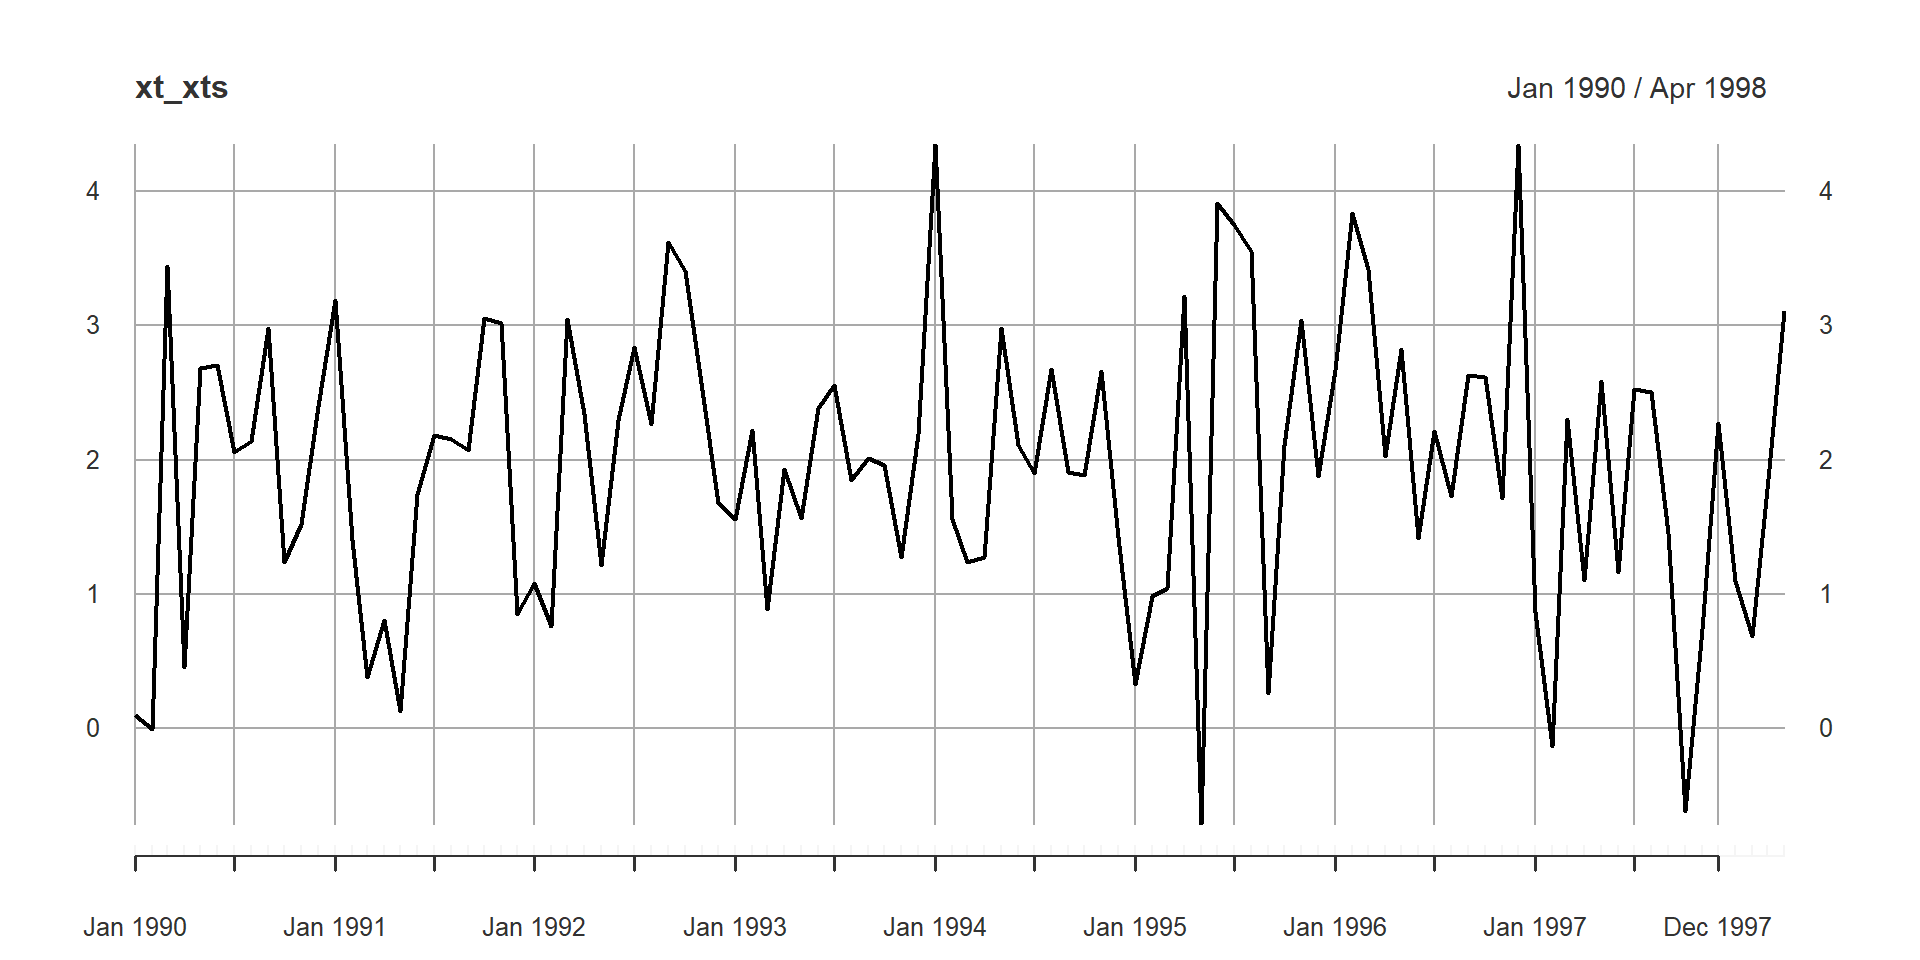
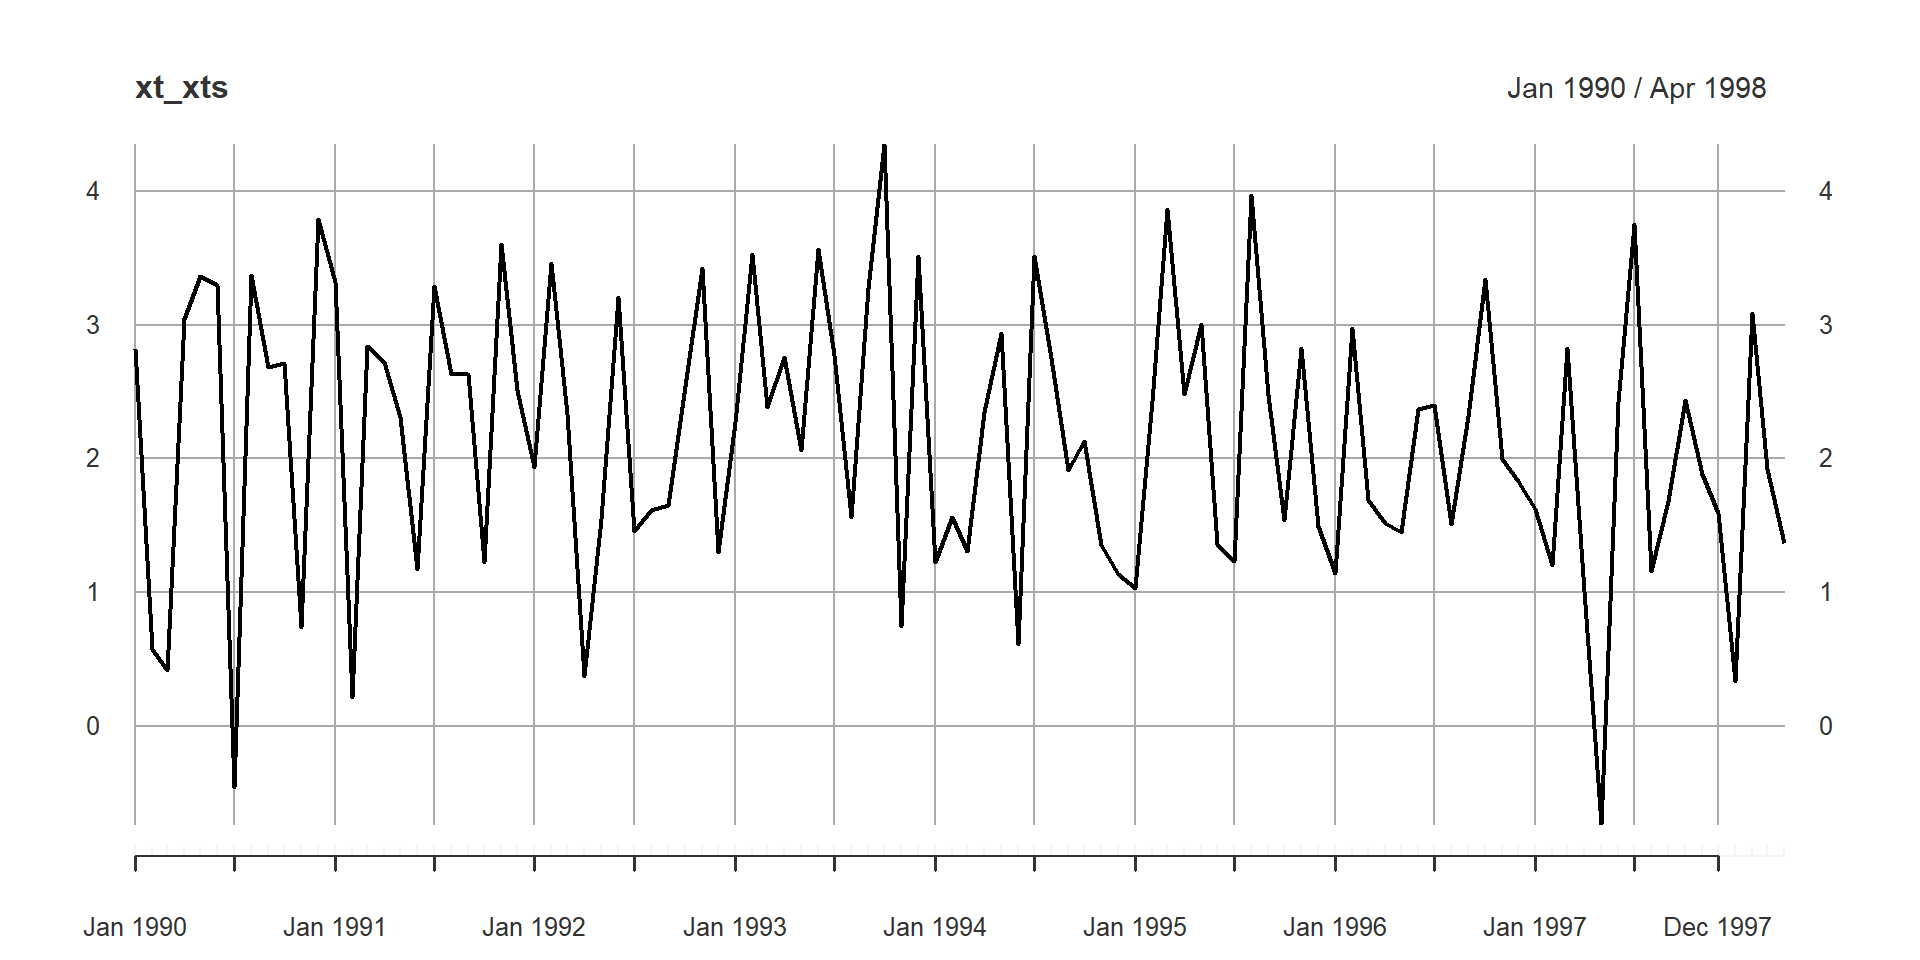
final commit for talk-30 april

Changed region(s): [[0.0625, 0.1562, 0.9375, 0.8438]]

diff --git a/index.html b/index.html
@@ -535,36 +535,26 @@
 <span id="cb3-10"><a href="#cb3-10"></a>x_t_ts</span></code><button title="Copy to Clipboard" class="code-copy-button"><i class="bi"></i></button></pre></div>
 </details>
 <div class="cell-output-stdout">
-<pre><code>              Jan          Feb          Mar          Apr          May
-1990  0.100866898 -0.005251934  3.438330860  0.458811496  2.681851038
-1991  3.185859935  1.403604103  0.384470899  0.802973240  0.127494497
-1992  1.084665188  0.757454651  3.046140843  2.337246245  1.216778868
-1993  1.556485642  2.220857928  0.885926032  1.925888213  1.563781244
-1994  4.343995279  1.558456827  1.235031097  1.275829632  2.975675011
-1995  0.331429945  0.985246232  1.041779043  3.215318422 -0.712972493
-1996  2.662604463  3.830724871  3.418559251  2.023278326  2.820857514
-1997  0.865772080 -0.129928757  2.297892818  1.106299390  2.586556337
-1998  1.094203262  0.688340499  1.782564857  3.107187177             
-              Jun          Jul          Aug          Sep          Oct
-1990  2.706225740  2.054441856  2.135221640  2.981260246  1.240374070
-1991  1.746853597  2.184970267  2.155390976  2.073315627  3.050784562
-1992  2.292353029  2.840675003  2.265765449  3.617420157  3.402064670
-1993  2.384905895  2.555105094  1.849439225  2.012309758  1.958575288
-1994  2.109360363  1.899342762  2.671398004  1.903668305  1.887813424
-1995  3.905038856  3.744982651  3.552211373  0.263388908  2.105880593
-1996  1.415150515  2.212966218  1.730411093  2.630942435  2.615234648
-1997  1.163818649  2.521430777  2.504262692  1.452068246 -0.616208757
-1998                                                                 
-              Nov          Dec
-1990  1.520318072  2.395288178
-1991  3.017242594  0.847537078
-1992  2.517126784  1.674464731
-1993  1.271005389  2.192520309
-1994  2.660505927  1.423952679
-1995  3.038078737  1.874304390
-1996  1.713891092  4.338898921
-1997  0.737815799  2.275146083
-1998                          </code></pre>
+<pre><code>            Jan        Feb        Mar        Apr        May        Jun
+1990  2.8203618  0.5755886  0.4134947  3.0454421  3.3659777  3.2954016
+1991  3.3161857  0.2127545  2.8374134  2.7166428  2.3117107  1.1738755
+1992  1.9372538  3.4643340  2.3323571  0.3694845  1.5466471  3.2061273
+1993  2.2733725  3.5311956  2.3861636  2.7582540  2.0640139  3.5661658
+1994  1.2235892  1.5590282  1.3059353  2.3428557  2.9375217  0.6132035
+1995  1.0304379  2.4296713  3.8684515  2.4794834  3.0075871  1.3595411
+1996  1.1439790  2.9719980  1.6849453  1.5137620  1.4455879  2.3669057
+1997  1.6188183  1.2002350  2.8244947  1.0083320 -0.7371647  2.4182762
+1998  0.3310294  3.0891463  1.9229076  1.3697189                      
+            Jul        Aug        Sep        Oct        Nov        Dec
+1990 -0.4609463  3.3737579  2.6817652  2.7152014  0.7397897  3.7916221
+1991  3.2913807  2.6275787  2.6283636  1.2202671  3.6020659  2.5092935
+1992  1.4530966  1.6121611  1.6524619  2.5441481  3.4220465  1.3020075
+1993  2.7735829  1.5619071  3.2748662  4.3476704  0.7436226  3.5164579
+1994  3.5114732  2.7507859  1.9112005  2.1323712  1.3501136  1.1322313
+1995  1.2307389  3.9682767  2.4759107  1.5398983  2.8250183  1.4945765
+1996  2.3994572  1.5054205  2.3194425  3.3441534  1.9971786  1.8297629
+1997  3.7563266  1.1551518  1.6803481  2.4344934  1.8830335  1.5874076
+1998                                                                  </code></pre>
 </div>
 </div>
 <div class="cell">
@@ -593,107 +583,107 @@
 <span id="cb6-10"><a href="#cb6-10"></a>xt_xts</span></code><button title="Copy to Clipboard" class="code-copy-button"><i class="bi"></i></button></pre></div>
 </details>
 <div class="cell-output-stdout">
-<pre><code>                 [,1]
-Jan 1990  0.100866898
-Feb 1990 -0.005251934
-Mar 1990  3.438330860
-Apr 1990  0.458811496
-May 1990  2.681851038
-Jun 1990  2.706225740
-Jul 1990  2.054441856
-Aug 1990  2.135221640
-Sep 1990  2.981260246
-Oct 1990  1.240374070
-Nov 1990  1.520318072
-Dec 1990  2.395288178
-Jan 1991  3.185859935
-Feb 1991  1.403604103
-Mar 1991  0.384470899
-Apr 1991  0.802973240
-May 1991  0.127494497
-Jun 1991  1.746853597
-Jul 1991  2.184970267
-Aug 1991  2.155390976
-Sep 1991  2.073315627
-Oct 1991  3.050784562
-Nov 1991  3.017242594
-Dec 1991  0.847537078
-Jan 1992  1.084665188
-Feb 1992  0.757454651
-Mar 1992  3.046140843
-Apr 1992  2.337246245
-May 1992  1.216778868
-Jun 1992  2.292353029
-Jul 1992  2.840675003
-Aug 1992  2.265765449
-Sep 1992  3.617420157
-Oct 1992  3.402064670
-Nov 1992  2.517126784
-Dec 1992  1.674464731
-Jan 1993  1.556485642
-Feb 1993  2.220857928
-Mar 1993  0.885926032
-Apr 1993  1.925888213
-May 1993  1.563781244
-Jun 1993  2.384905895
-Jul 1993  2.555105094
-Aug 1993  1.849439225
-Sep 1993  2.012309758
-Oct 1993  1.958575288
-Nov 1993  1.271005389
-Dec 1993  2.192520309
-Jan 1994  4.343995279
-Feb 1994  1.558456827
-Mar 1994  1.235031097
-Apr 1994  1.275829632
-May 1994  2.975675011
-Jun 1994  2.109360363
-Jul 1994  1.899342762
-Aug 1994  2.671398004
-Sep 1994  1.903668305
-Oct 1994  1.887813424
-Nov 1994  2.660505927
-Dec 1994  1.423952679
-Jan 1995  0.331429945
-Feb 1995  0.985246232
-Mar 1995  1.041779043
-Apr 1995  3.215318422
-May 1995 -0.712972493
-Jun 1995  3.905038856
-Jul 1995  3.744982651
-Aug 1995  3.552211373
-Sep 1995  0.263388908
-Oct 1995  2.105880593
-Nov 1995  3.038078737
-Dec 1995  1.874304390
-Jan 1996  2.662604463
-Feb 1996  3.830724871
-Mar 1996  3.418559251
-Apr 1996  2.023278326
-May 1996  2.820857514
-Jun 1996  1.415150515
-Jul 1996  2.212966218
-Aug 1996  1.730411093
-Sep 1996  2.630942435
-Oct 1996  2.615234648
-Nov 1996  1.713891092
-Dec 1996  4.338898921
-Jan 1997  0.865772080
-Feb 1997 -0.129928757
-Mar 1997  2.297892818
-Apr 1997  1.106299390
-May 1997  2.586556337
-Jun 1997  1.163818649
-Jul 1997  2.521430777
-Aug 1997  2.504262692
-Sep 1997  1.452068246
-Oct 1997 -0.616208757
-Nov 1997  0.737815799
-Dec 1997  2.275146083
-Jan 1998  1.094203262
-Feb 1998  0.688340499
-Mar 1998  1.782564857
-Apr 1998  3.107187177</code></pre>
+<pre><code>               [,1]
+Jan 1990  2.8203618
+Feb 1990  0.5755886
+Mar 1990  0.4134947
+Apr 1990  3.0454421
+May 1990  3.3659777
+Jun 1990  3.2954016
+Jul 1990 -0.4609463
+Aug 1990  3.3737579
+Sep 1990  2.6817652
+Oct 1990  2.7152014
+Nov 1990  0.7397897
+Dec 1990  3.7916221
+Jan 1991  3.3161857
+Feb 1991  0.2127545
+Mar 1991  2.8374134
+Apr 1991  2.7166428
+May 1991  2.3117107
+Jun 1991  1.1738755
+Jul 1991  3.2913807
+Aug 1991  2.6275787
+Sep 1991  2.6283636
+Oct 1991  1.2202671
+Nov 1991  3.6020659
+Dec 1991  2.5092935
+Jan 1992  1.9372538
+Feb 1992  3.4643340
+Mar 1992  2.3323571
+Apr 1992  0.3694845
+May 1992  1.5466471
+Jun 1992  3.2061273
+Jul 1992  1.4530966
+Aug 1992  1.6121611
+Sep 1992  1.6524619
+Oct 1992  2.5441481
+Nov 1992  3.4220465
+Dec 1992  1.3020075
+Jan 1993  2.2733725
+Feb 1993  3.5311956
+Mar 1993  2.3861636
+Apr 1993  2.7582540
+May 1993  2.0640139
+Jun 1993  3.5661658
+Jul 1993  2.7735829
+Aug 1993  1.5619071
+Sep 1993  3.2748662
+Oct 1993  4.3476704
+Nov 1993  0.7436226
+Dec 1993  3.5164579
+Jan 1994  1.2235892
+Feb 1994  1.5590282
+Mar 1994  1.3059353
+Apr 1994  2.3428557
+May 1994  2.9375217
+Jun 1994  0.6132035
+Jul 1994  3.5114732
+Aug 1994  2.7507859
+Sep 1994  1.9112005
+Oct 1994  2.1323712
+Nov 1994  1.3501136
+Dec 1994  1.1322313
+Jan 1995  1.0304379
+Feb 1995  2.4296713
+Mar 1995  3.8684515
+Apr 1995  2.4794834
+May 1995  3.0075871
+Jun 1995  1.3595411
+Jul 1995  1.2307389
+Aug 1995  3.9682767
+Sep 1995  2.4759107
+Oct 1995  1.5398983
+Nov 1995  2.8250183
+Dec 1995  1.4945765
+Jan 1996  1.1439790
+Feb 1996  2.9719980
+Mar 1996  1.6849453
+Apr 1996  1.5137620
+May 1996  1.4455879
+Jun 1996  2.3669057
+Jul 1996  2.3994572
+Aug 1996  1.5054205
+Sep 1996  2.3194425
+Oct 1996  3.3441534
+Nov 1996  1.9971786
+Dec 1996  1.8297629
+Jan 1997  1.6188183
+Feb 1997  1.2002350
+Mar 1997  2.8244947
+Apr 1997  1.0083320
+May 1997 -0.7371647
+Jun 1997  2.4182762
+Jul 1997  3.7563266
+Aug 1997  1.1551518
+Sep 1997  1.6803481
+Oct 1997  2.4344934
+Nov 1997  1.8830335
+Dec 1997  1.5874076
+Jan 1998  0.3310294
+Feb 1998  3.0891463
+Mar 1998  1.9229076
+Apr 1998  1.3697189</code></pre>
 </div>
 </div>
 <div class="cell">
@@ -1072,6 +1062,9 @@ y_{t}^{\prime}=y_{t}-y_{t-1}=y_{t}-L y_{t}=(1-L) y_{t}
 <li class="fragment">Unit root with structural breaks</li>
 <li class="fragment">KPSS stationarity test</li>
 </ul>
+<aside class="notes">
+<p>DF test, errors are white noise while in ADF we allow for autocorrelation in PP errors are ARMA - PP based on aymptotic properties</p>
+</aside>
 </section></section>
 <section>
 <section id="where-do-we-go-from-here" class="title-slide slide level2 center">
